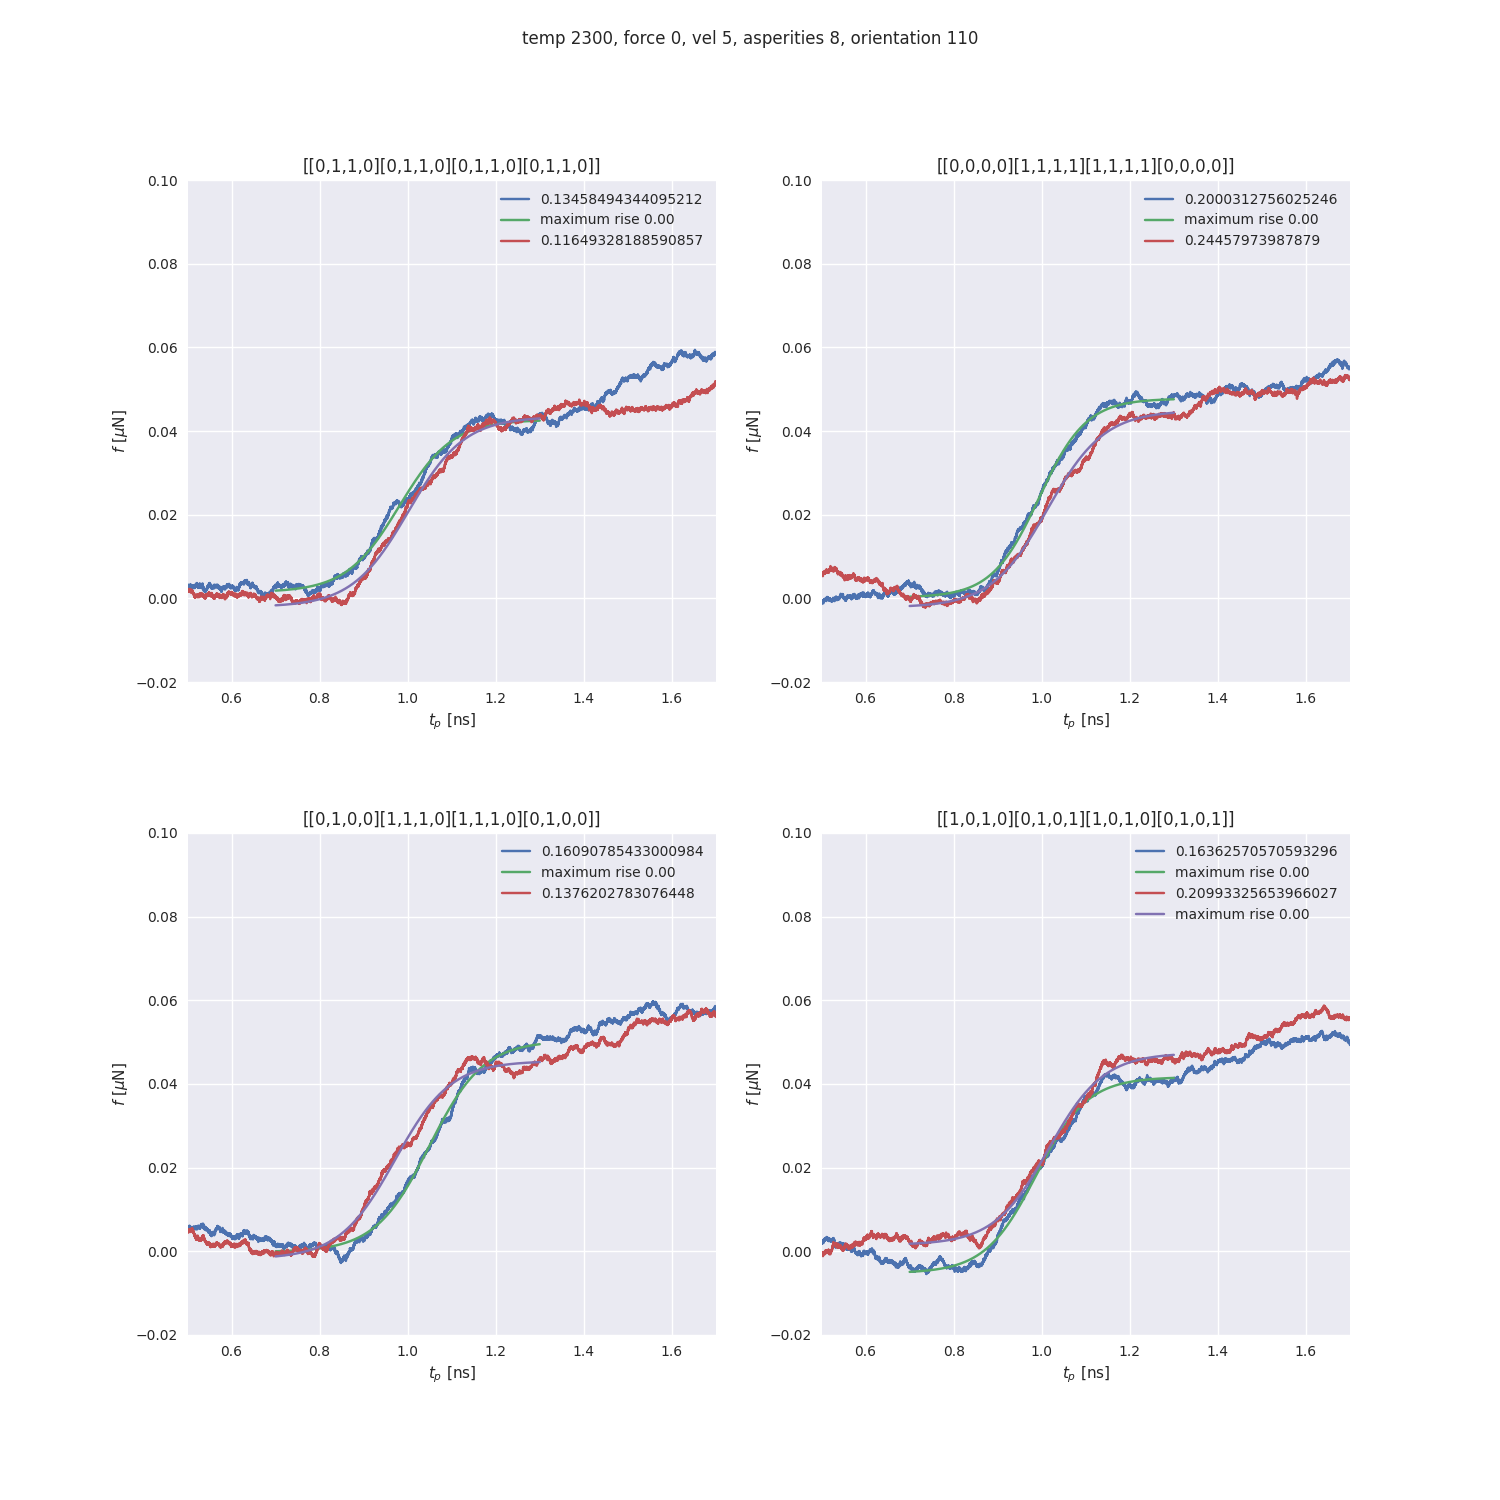
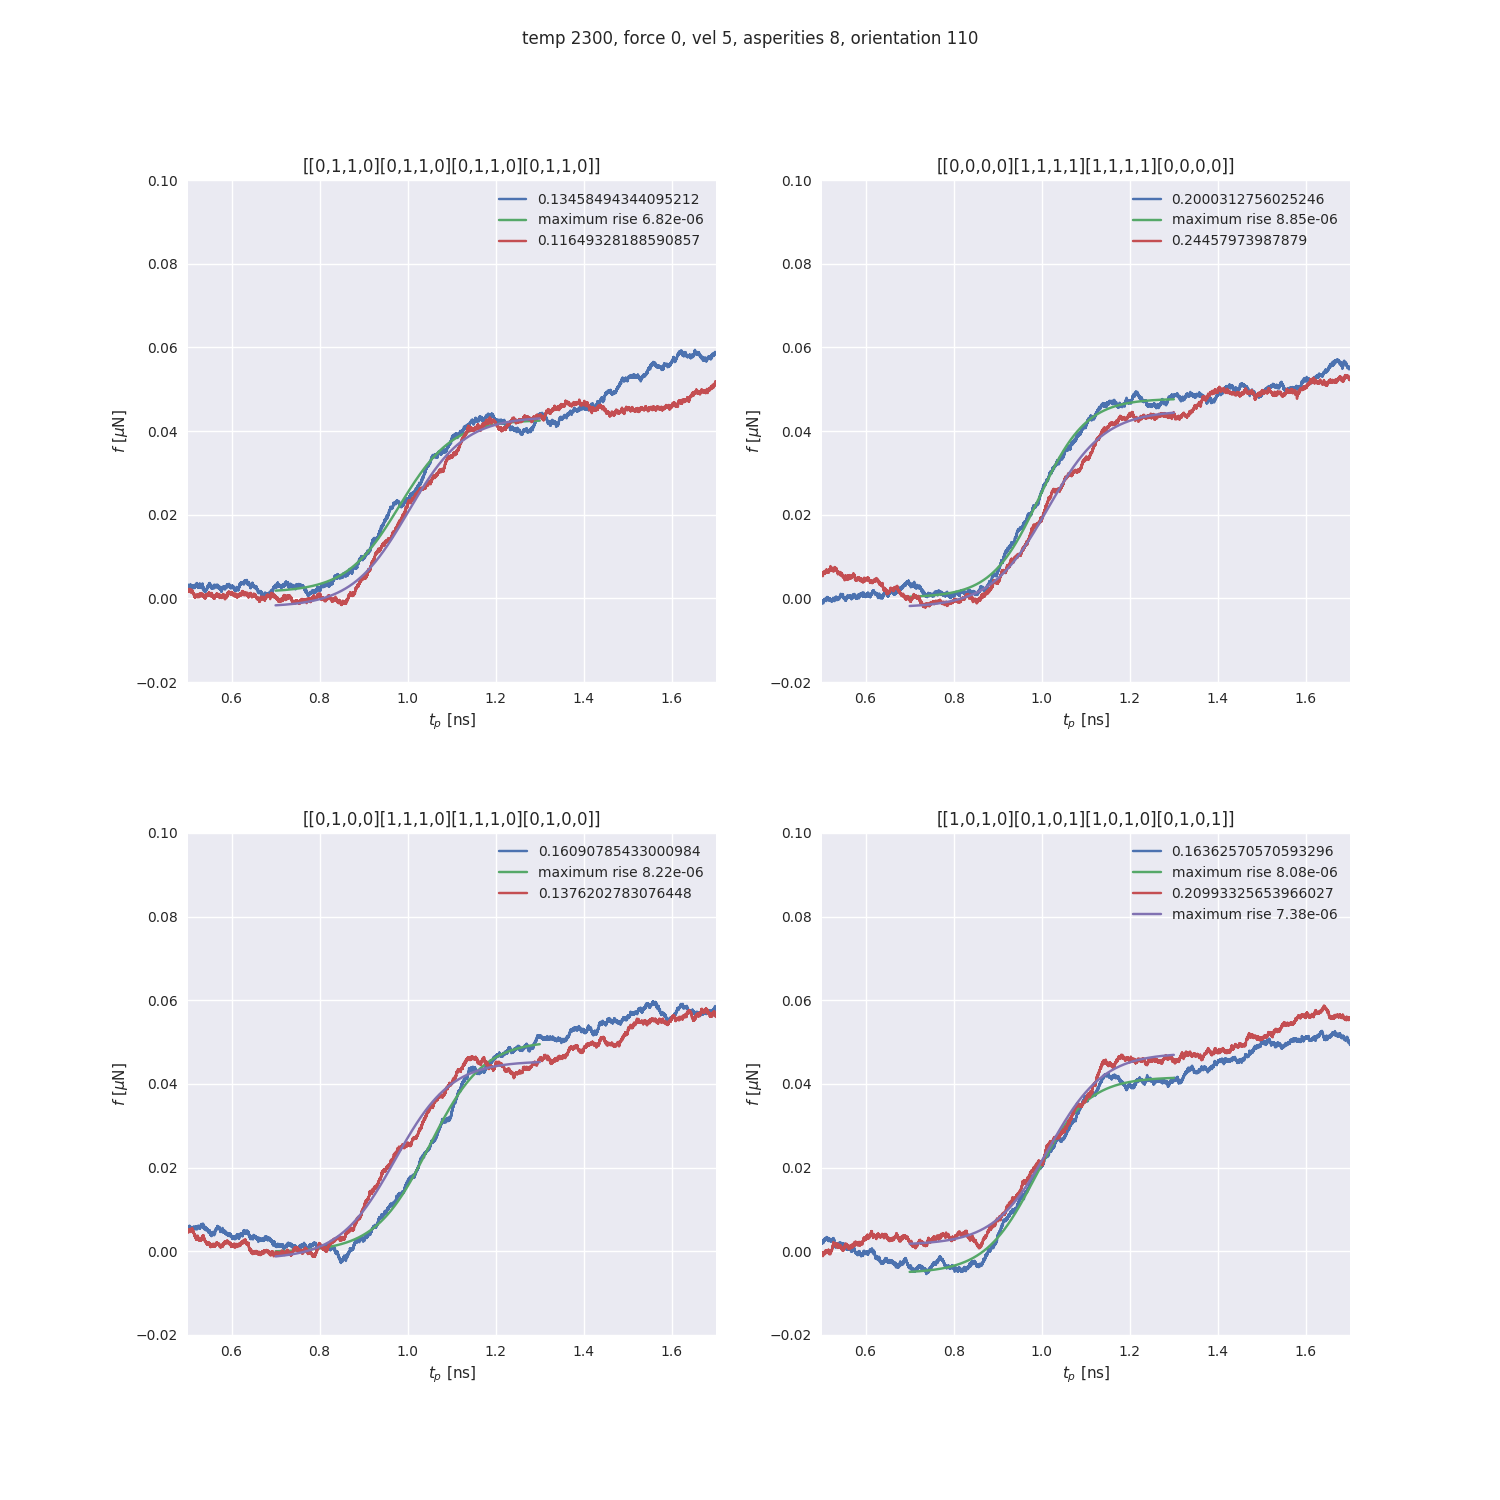
plot update

diff --git a/python/plot/plot_load_curves.py b/python/plot/plot_load_curves.py
@@ -534,7 +534,7 @@ def plot_production(temp, vel, force, uc, asperities, time, orientation, grid, e
                 print(popt)
                 max_rise = np.max(np.gradient(sigmoid(time_nnan, *popt)))
                 print(f'max rise {max_rise}')
-                axs[i].plot(time_nnan, sigmoid(time_nnan, *popt), label = f'maximum rise {max_rise:.2f}')
+                axs[i].plot(time_nnan, sigmoid(time_nnan, *popt), label = f'maximum rise {max_rise:.2e}')
             except:
                 print('skipped \n \n')
                 continue #skip this loop iteration
